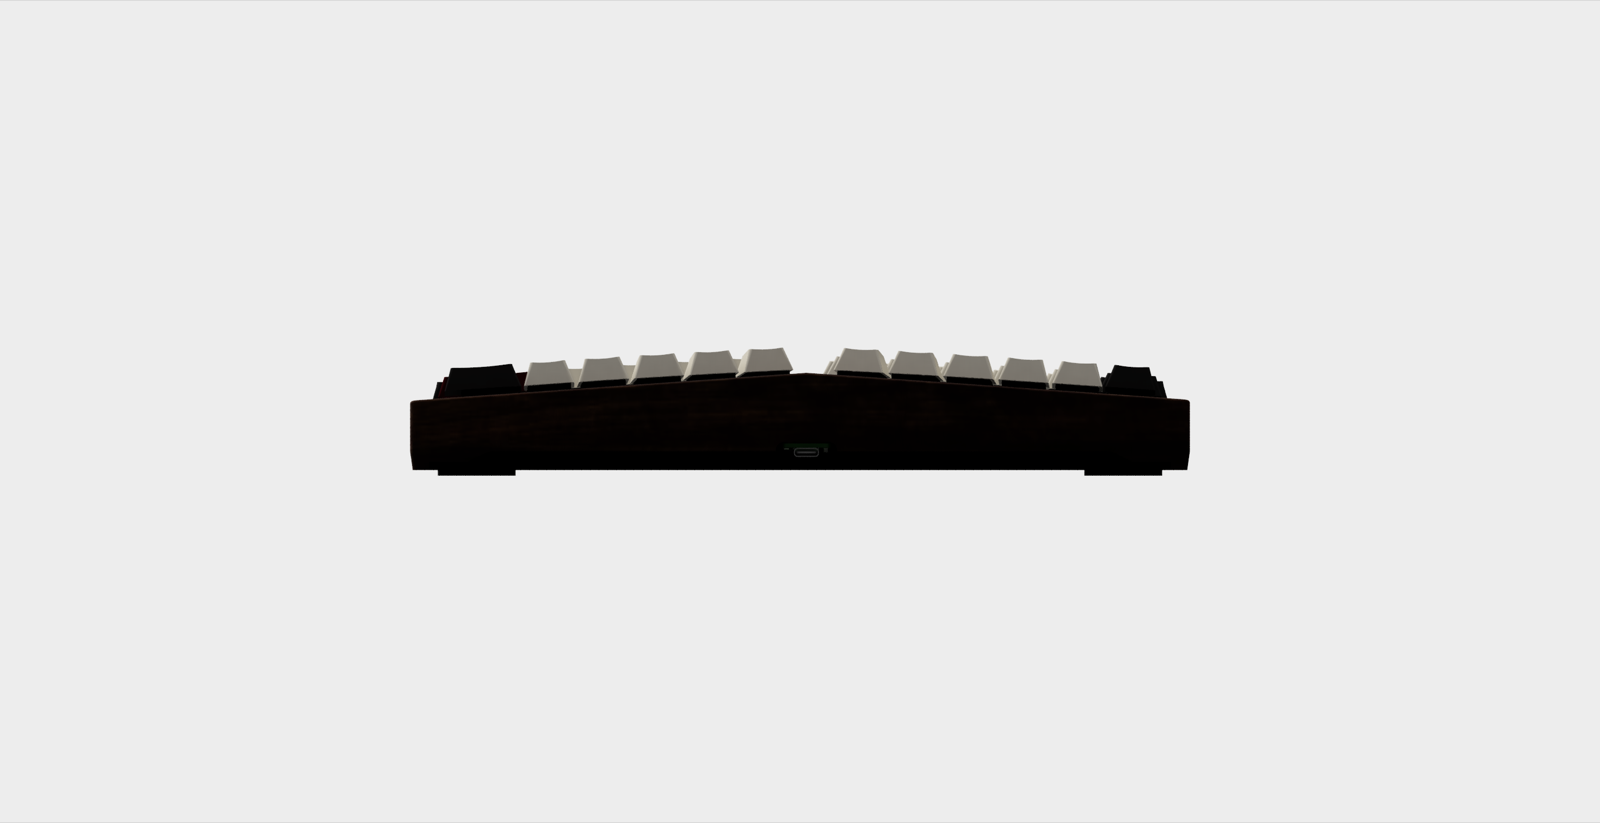
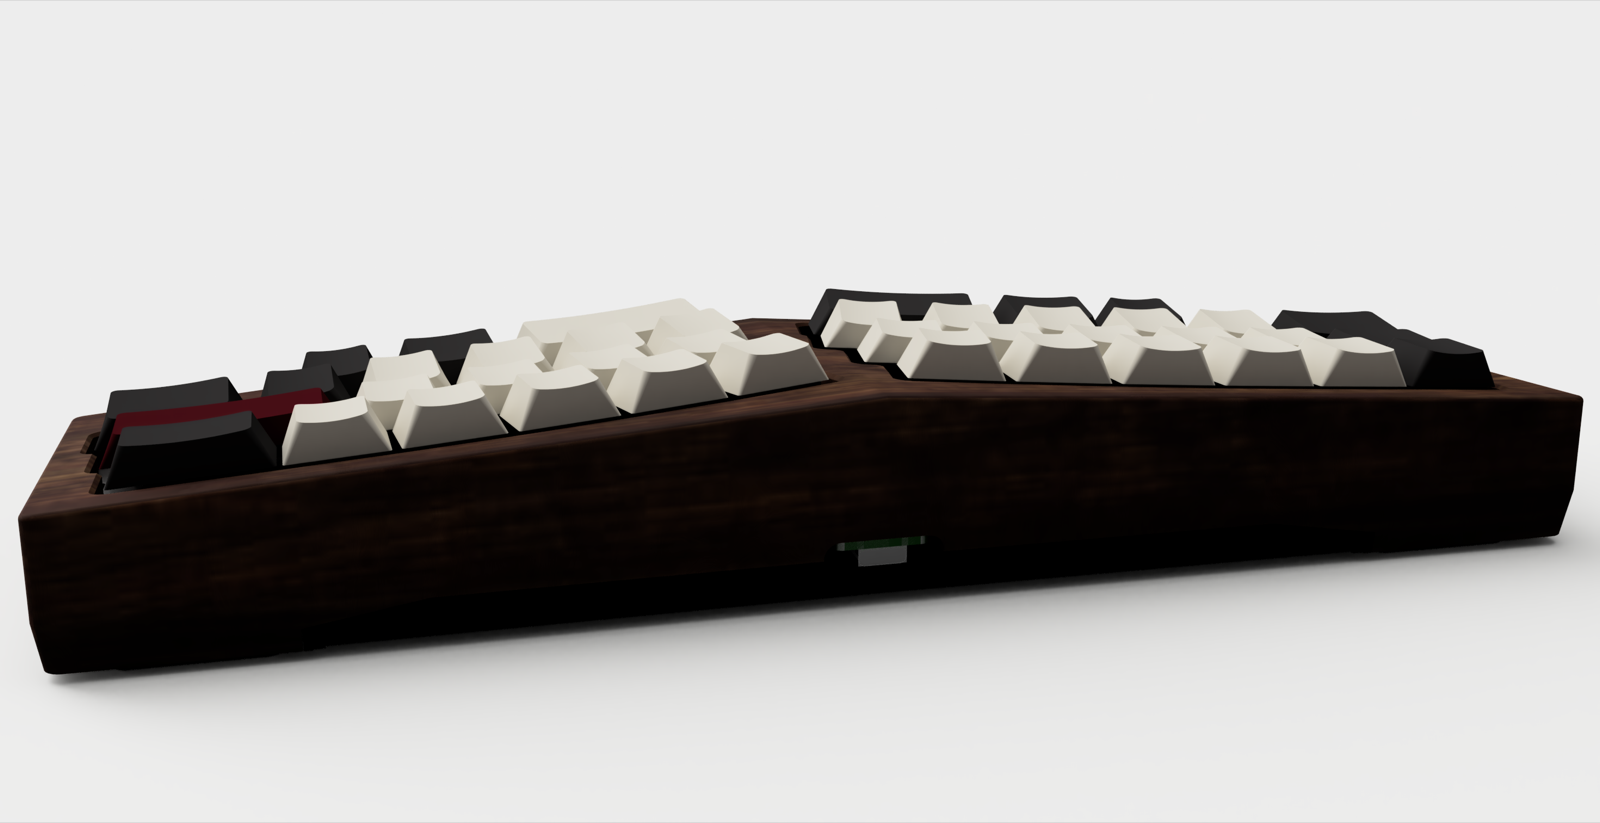
Update README renders

diff --git a/README.md b/README.md
@@ -2,9 +2,9 @@ Case for a split 40% Alice keyboard, designed with [alice-layout-designer](https
 
 ![Alice case in walnut with Cherry-profile keycaps](docs/images/hero_iso.png)
 
-| Top | Back | Centre ridge |
-|---|---|---|
-| ![Top view](docs/images/top.png) | ![Back view with USB-C](docs/images/back.png) | ![Close-up of the centre ridge](docs/images/closeup_ridge.png) |
+| Top | Back | Underside | Low |
+|---|---|---|---|
+| ![Top view](docs/images/top.png) | ![Back view with USB-C](docs/images/back.png) | ![Underside](docs/images/underside.png) | ![Low three-quarter view](docs/images/low.png) |
 
 Renders from Fusion (walnut body, anodised panel, Cherry-profile caps). Electronics are placeholders.
 
